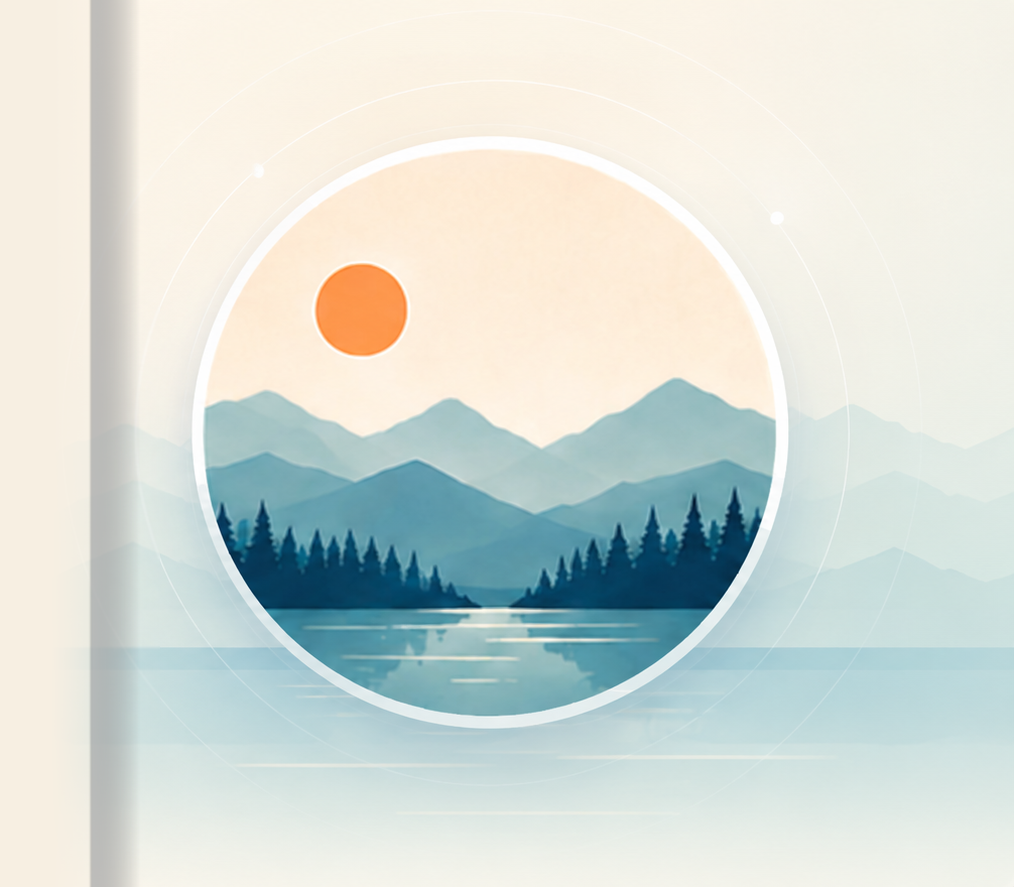
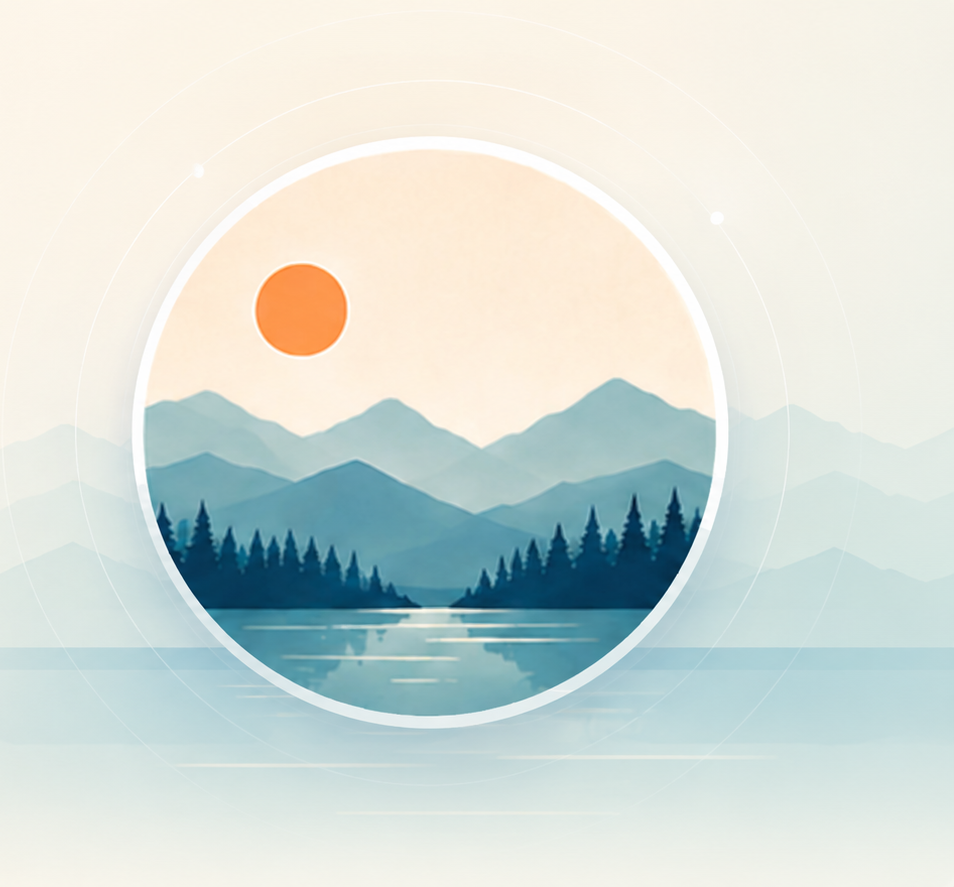
Fix hero artwork background

Changed region(s): [[0.0, 0.0, 0.7904, 1.0]]

diff --git a/src/styles/global.css b/src/styles/global.css
@@ -80,17 +80,32 @@ p { margin: 0; }
 .hero-shell {
   position: relative;
   overflow: hidden;
-  background: linear-gradient(100deg, #f8f1e5 0%, #faf5ec 44%, #eef6f5 100%);
+  min-height: min(72vh, 720px);
+  background:
+    radial-gradient(circle at 74% 24%, rgba(255,255,255,.72), transparent 18rem),
+    linear-gradient(100deg, #f8f1e5 0%, #faf5ec 44%, #eef6f5 100%);
   border-bottom: 1px solid rgba(230,225,216,.72);
 }
+.hero-visual {
+  position: absolute;
+  inset: 0;
+  z-index: 0;
+  pointer-events: none;
+  background-image:
+    linear-gradient(90deg, rgba(248,241,229,.98) 0%, rgba(248,241,229,.94) 34%, rgba(248,241,229,.42) 51%, rgba(248,241,229,0) 66%),
+    var(--hero-art);
+  background-repeat: no-repeat;
+  background-position: center center, right center;
+  background-size: cover, min(62vw, 880px) auto;
+}
 .hero {
-  min-height: min(72vh, 740px);
-  display: grid;
-  grid-template-columns: minmax(0, .9fr) minmax(460px, 1.1fr);
+  position: relative;
+  z-index: 1;
+  min-height: min(72vh, 720px);
+  display: flex;
   align-items: center;
-  gap: clamp(2rem, 4vw, 4.5rem);
-  padding-top: clamp(3.2rem, 5vw, 4.8rem);
-  padding-bottom: clamp(2.25rem, 3.5vw, 3rem);
+  padding-top: clamp(3.3rem, 5vw, 4.7rem);
+  padding-bottom: clamp(2.35rem, 3.7vw, 3.2rem);
 }
 .hero-copy {
   position: relative;
@@ -106,15 +121,6 @@ p { margin: 0; }
 .hero-actions { display: flex; flex-wrap: wrap; gap: .9rem; margin-bottom: 1.45rem; }
 .quiet-line { display: flex; align-items: center; gap: .55rem; color: #174866; font-weight: 800; }
 .quiet-line span { color: #1d93a2; }
-.hero-art {
-  position: relative;
-  min-height: clamp(420px, 43vw, 570px);
-  background-image: var(--hero-art);
-  background-repeat: no-repeat;
-  background-position: center center;
-  background-size: contain;
-}
-
 
 .intro-grid { display: grid; grid-template-columns: 1.05fr .95fr; gap: clamp(2rem, 5vw, 5rem); align-items: start; }
 .intro-grid.section-pad { padding-top: clamp(2.5rem, 5vw, 3.6rem); padding-bottom: clamp(2.4rem, 5vw, 3.6rem); }
@@ -182,8 +188,19 @@ p { margin: 0; }
 @keyframes floaty { 0%,100% { transform: translateY(0); opacity: .25; } 50% { transform: translateY(-18px); opacity: .65; } }
 
 @media (max-width: 980px) {
-  .hero { grid-template-columns: 1fr; min-height: auto; }
-  .hero-art { min-height: 360px; order: -1; background-position: center top; }
+  .hero-shell { min-height: auto; }
+  .hero-visual {
+    opacity: .92;
+    background-image:
+      linear-gradient(180deg, rgba(248,241,229,.12) 0%, rgba(248,241,229,.76) 48%, rgba(248,241,229,.98) 72%),
+      var(--hero-art);
+    background-position: center top, center top;
+    background-size: cover, min(96vw, 680px) auto;
+  }
+  .hero {
+    min-height: auto;
+    padding-top: clamp(18rem, 54vw, 30rem);
+  }
   .app-grid { grid-template-columns: repeat(2, minmax(0,1fr)); }
   .intro-grid { grid-template-columns: 1fr; }
   .principles { grid-template-columns: 1fr; }
@@ -193,8 +210,8 @@ p { margin: 0; }
   .site-nav { width: 100%; overflow-x: auto; padding-bottom: .25rem; }
   .brand-mark { width: 44px; height: 44px; }
   h1 { font-size: clamp(2.75rem, 15vw, 4rem); }
-  .hero { padding-top: 2rem; }
-  .hero-art { min-height: 260px; }
+  .hero { padding-top: clamp(15rem, 62vw, 22rem); }
+  .hero-visual { background-size: cover, min(116vw, 560px) auto; }
   .app-grid, .info-grid, .footer-columns, .future-band { grid-template-columns: 1fr; }
   .future-band { text-align: left; }
 }
